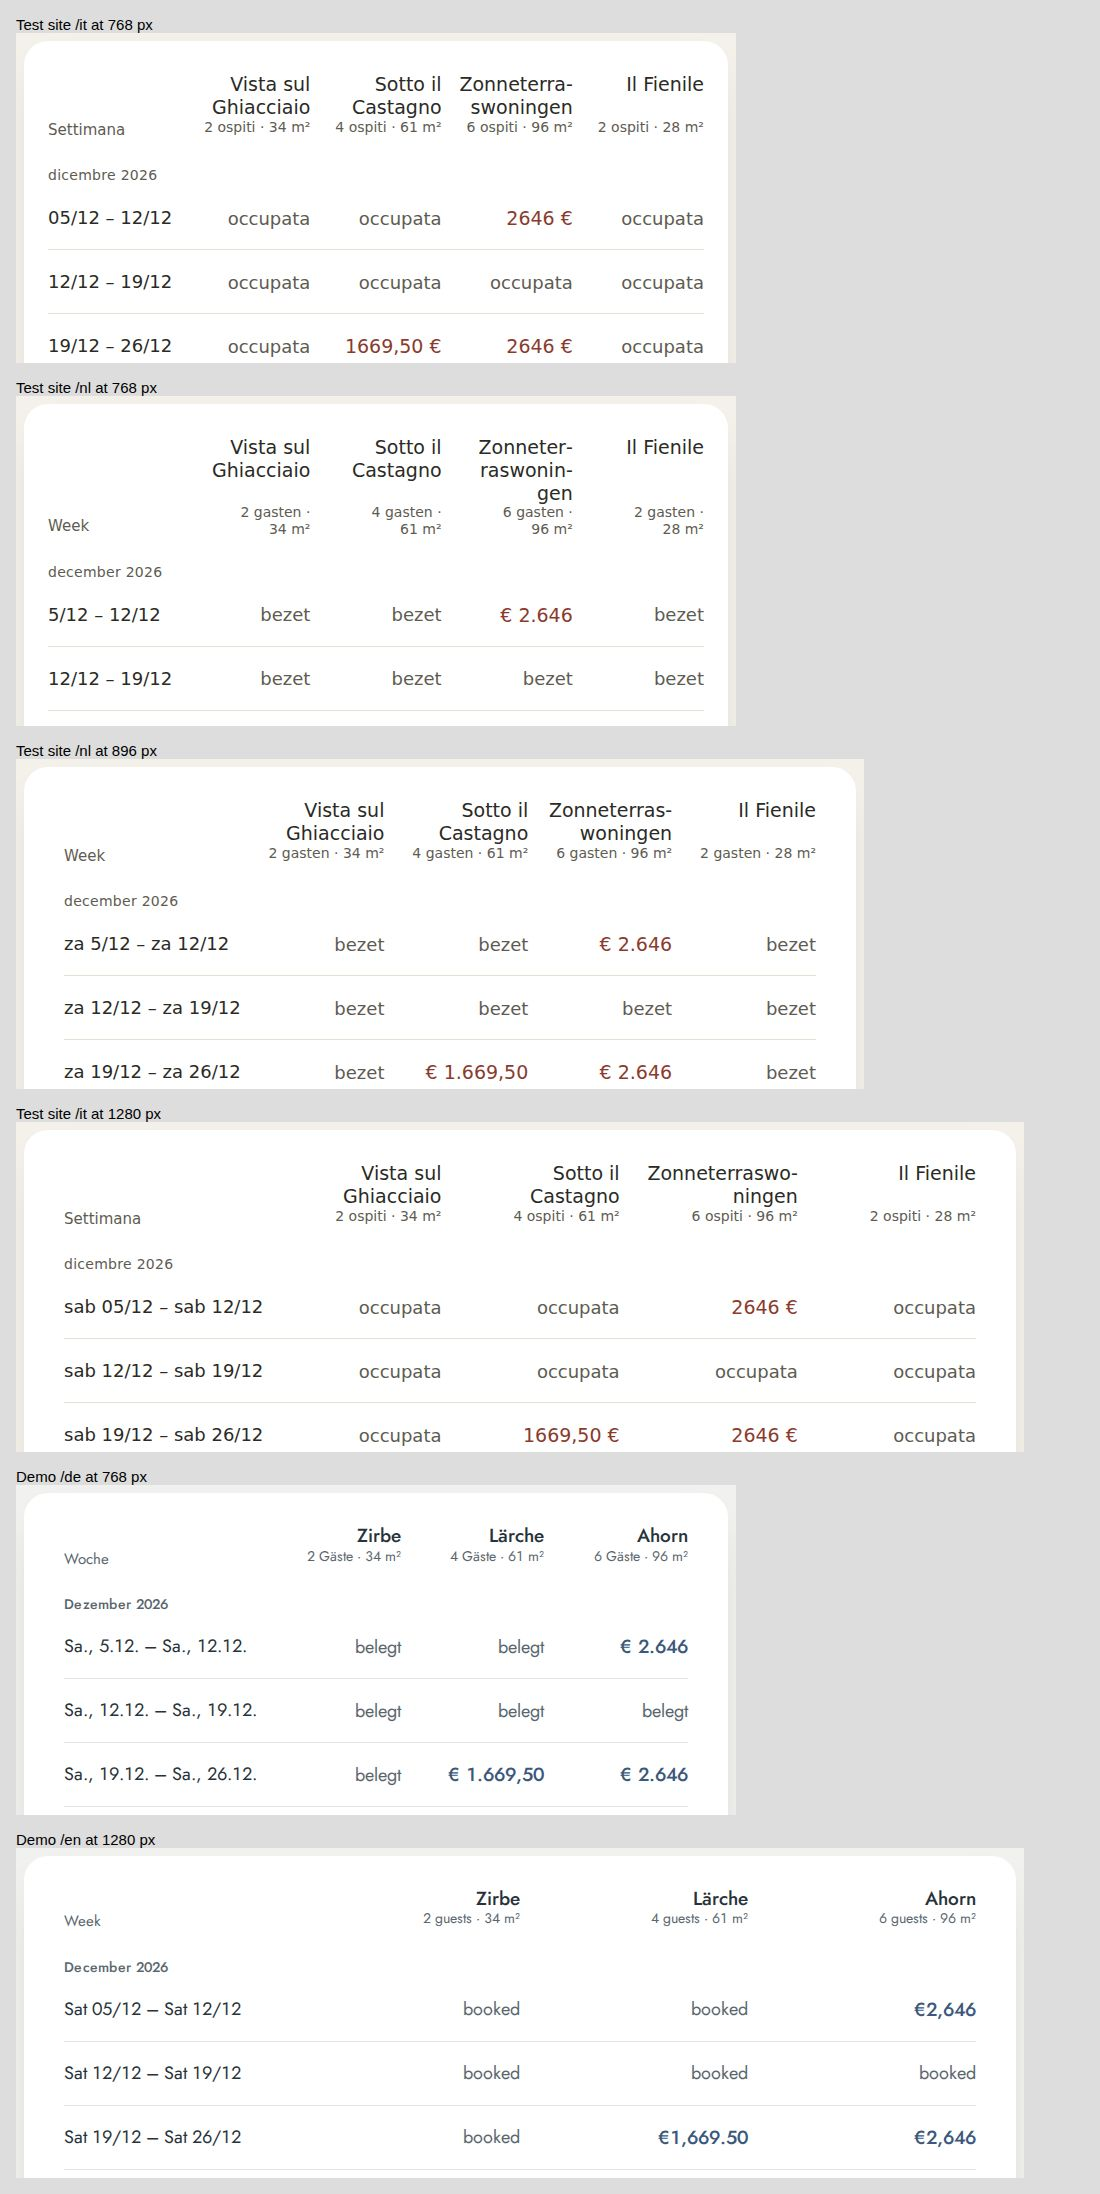
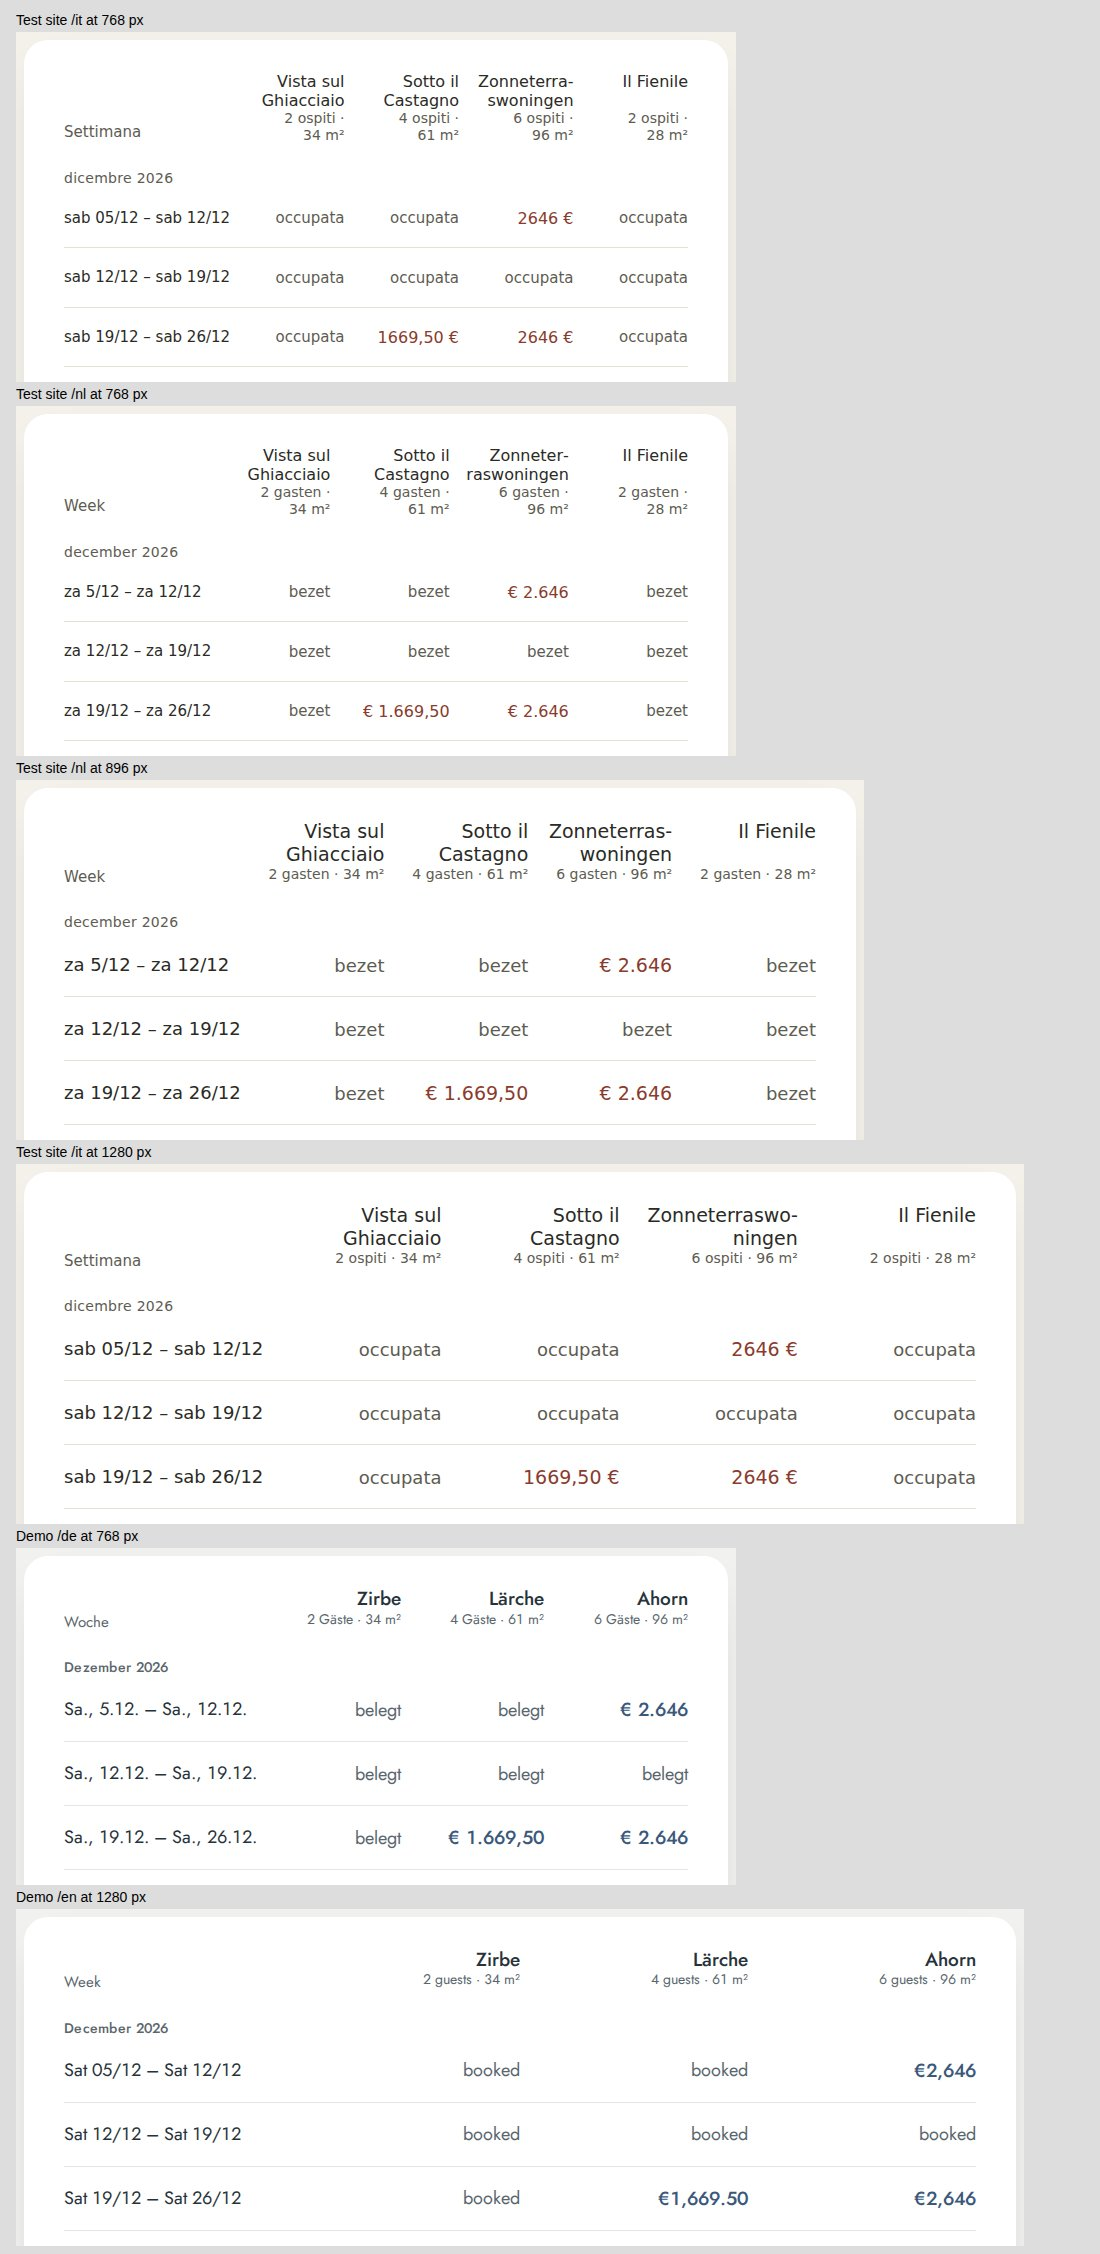
Set four columns' text a step smaller below 56rem, keeping the weekday
Leaving out the weekday and narrowing the card's sides made the rows
read differently from those at other widths. A smaller text gives the
columns the same room. The comments now say that the facts may take two
lines in their own row, and that the row header names the weekday.

diff --git a/src/styles.css b/src/styles.css
@@ -721,13 +721,6 @@
       --end: 1.5rem;
       padding-top: 1rem;
     }
-
-    /* Four apartments' columns need the room below 56rem. */
-    @media (48rem <= width < 56rem) {
-      &:has(.weeks-columns > :nth-child(5)) {
-        --pad: 1.5rem;
-      }
-    }
   }
 
   /* The columns share the width evenly, none narrower than its content; a name may wrap. */
@@ -789,8 +782,8 @@
     border-top: 1px solid var(--color-line);
   }
 
-  /* Two rows: the names stand at the top, however many lines each takes, and the facts below
-     them in one line. */
+  /* Two rows: the names stand at the top, however many lines each takes, and the facts in a
+     row of their own below them, level across the columns. */
   .weeks-columns {
     grid-template-rows: auto auto;
     padding: 1rem 0 0.5rem;
@@ -822,21 +815,14 @@
     }
   }
 
-  /* Every week starts on the same weekday, so where room is short the rows leave it out; each
-     price's label still names it. */
+  /* Every week starts on the same weekday, so the narrowest screens leave it out of the rows;
+     the row header's label still names it. */
   [role='rowheader'] {
     padding-block: 1.125rem;
     white-space: nowrap;
 
     @media (max-width: 22.4375rem) {
       .weekday {
-        display: none;
-      }
-    }
-
-    /* Nor in four apartments' columns below 56rem. */
-    @media (48rem <= width < 56rem) {
-      .weeks-grid:has(.weeks-columns > :nth-child(5)) & .weekday {
         display: none;
       }
     }
@@ -857,6 +843,18 @@
     text-align: left;
     white-space: normal;
     text-wrap: pretty;
+  }
+
+  /* Four apartments' columns are short of room below 56rem: their text is a step smaller. */
+  @media (48rem <= width < 56rem) {
+    .weeks-grid:has(.weeks-columns > :nth-child(5)) {
+      font-size: 0.9375rem;
+
+      .weeks-columns > * + *,
+      .price {
+        font-size: 1rem;
+      }
+    }
   }
 
   /* On a phone one apartment at a time, the one of the chosen tab, whose name and facts take
